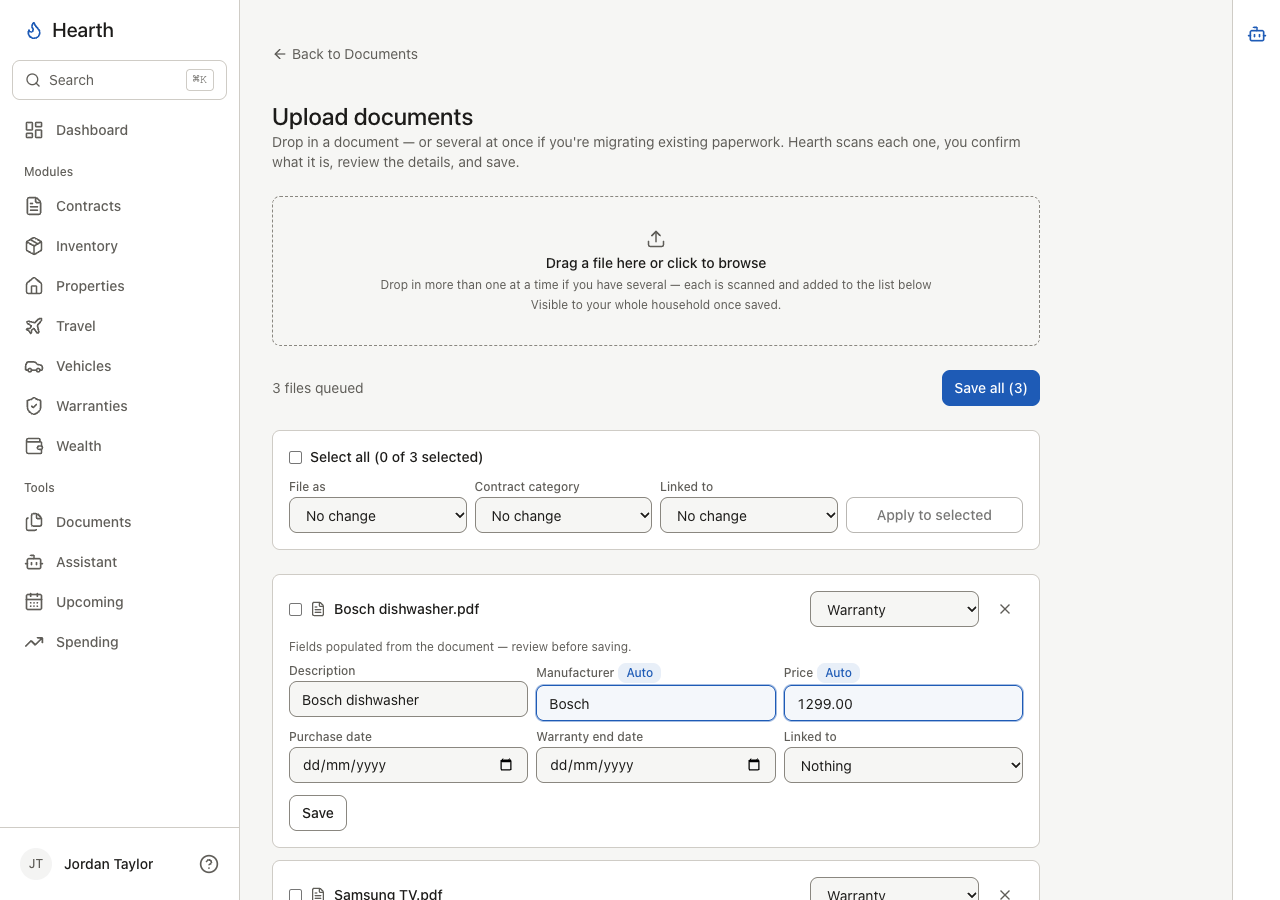
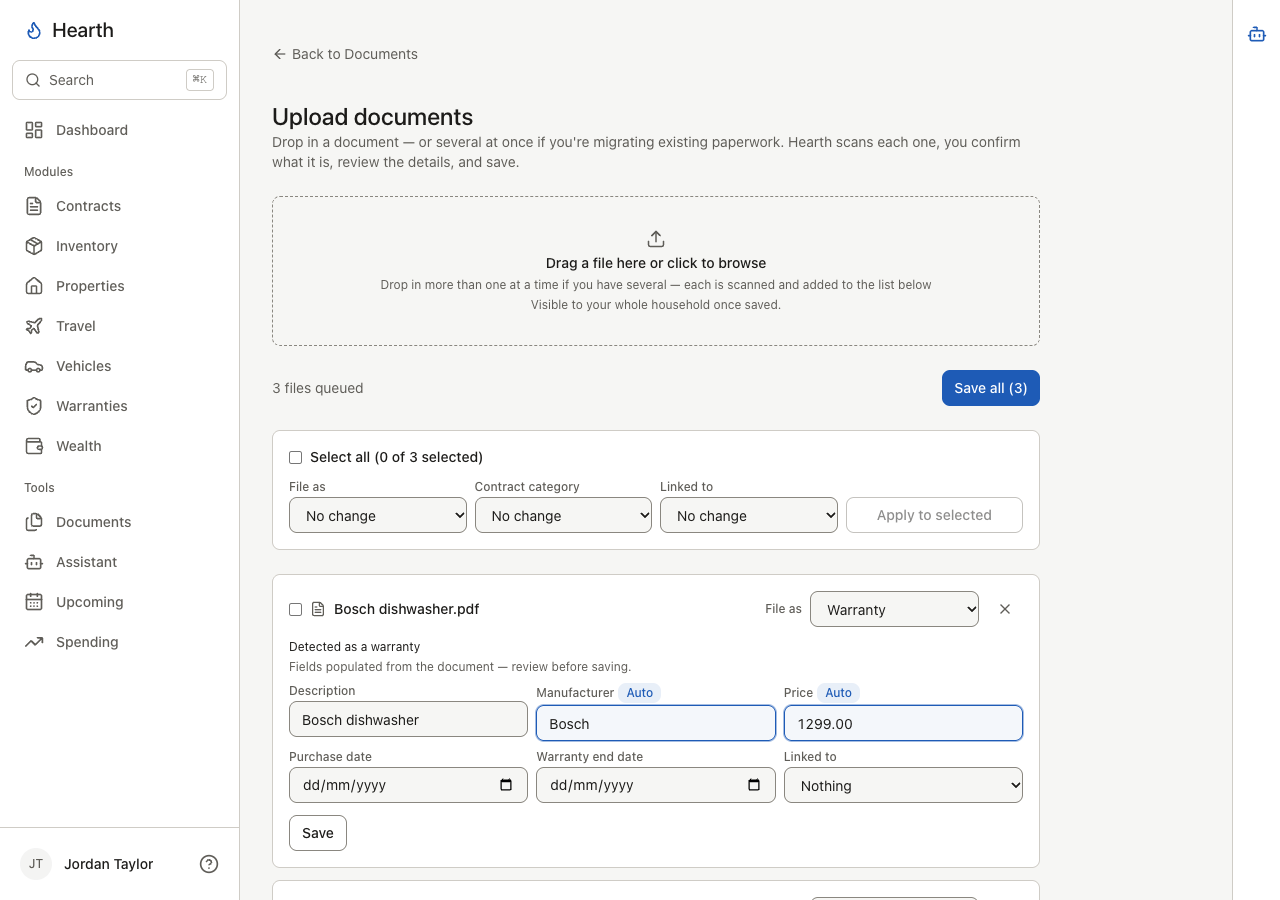
Upload rows label their type picker and say whether the type was detected (#604)
Each queued file on Upload documents gets a visible "File as" label tied to
its type select (accessible name still "File <name> as"), and tracks where
its type came from: the scan's guess ("Detected as a contract/warranty/
inventory item"), the fallback when the scan couldn't tell or failed
("Couldn't tell what this is. Pick a type."), or the person (no note, after
a per-row or "Apply to selected" change). An Inventory guess mapped to
Warranty with the module off reads "Detected as a warranty".

Recaptures docs/screenshots/import.png, which also brings it up to date
with #627's disabled-control styling.

Claude-Session: https://claude.ai/code/session_011ttckpenWhGwWMd3Q7v5KE

Changed region(s): [[0.2188, 0.7156, 0.8125, 1.0], [0.5938, 0.6533, 0.625, 0.6844]]

diff --git a/src/components/ImportClient.tsx b/src/components/ImportClient.tsx
@@ -10,6 +10,7 @@ import { showToast } from "@/components/Toast";
 import { LinkedToField } from "@/components/LinkedToField";
 import { extractionMessage } from "@/lib/autoFillHighlight";
 import { extractionReviewedOnSave } from "@/lib/documents/extractionConfirmation";
+import { scannedRowType, typeSourceNote, type TypeSource } from "@/lib/documents/uploadTypeSource";
 import { buttonClass, pillClass, inputClass, inlineLinkClass, reviewFieldClass } from "@/lib/ui";
 import { Card } from "@/components/ui/Card";
 
@@ -66,6 +67,8 @@ interface Row {
   id: string;
   file: File;
   type: EntityType;
+  /** #604 — whether `type` came from the scan's guess, the fallback, or the person. */
+  typeSource: TypeSource;
   status: RowStatus;
   error?: string;
   href?: string;
@@ -241,8 +244,7 @@ export function ImportClient({
     const inv = scan?.results.INVENTORY ?? empty;
     const textUnavailable = scan?.textUnavailable === true;
     const message = (r: ScanResult) => extractionMessage(r.source, Object.keys(r.fields).length, textUnavailable);
-    const guessed = scan?.guessedType === "INVENTORY" && !inventoryEnabled ? "PRODUCT" : scan?.guessedType;
-    const type: EntityType = guessed ?? "CONTRACT";
+    const { type, typeSource } = scannedRowType(scan?.guessedType, inventoryEnabled);
     const sources = { CONTRACT: c.source, PRODUCT: p.source, INVENTORY: inv.source };
     const scanMessages = { CONTRACT: message(c), PRODUCT: message(p), INVENTORY: message(inv) };
     setRows((prev) =>
@@ -251,6 +253,7 @@ export function ImportClient({
         const next: Row = {
           ...r,
           status: "ready",
+          typeSource,
           sources,
           scanMessages,
           contract: {
@@ -306,6 +309,7 @@ export function ImportClient({
         id,
         file,
         type: "CONTRACT",
+        typeSource: "fallback",
         status: "scanning",
         source: "none",
         extractionUsed: false,
@@ -410,7 +414,7 @@ export function ImportClient({
     setRows((prev) =>
       prev.map((r) => {
         if (!r.selected || !(r.status === "ready" || r.status === "error")) return r;
-        let next = bulk.type ? withType(r, bulk.type) : r;
+        let next = bulk.type ? { ...withType(r, bulk.type), typeSource: "user" as const } : r;
         if (bulk.category) next = { ...next, contract: { ...next.contract, category: bulk.category } };
         if (bulk.link) {
           const [kind, id] = bulk.link.split(":");
@@ -610,14 +614,19 @@ export function ImportClient({
                       </span>
                     ) : (
                       <>
+                        <label htmlFor={`${row.id}-type`} className="whitespace-nowrap text-xs font-medium text-muted">
+                          File <span className="sr-only">{row.file.name}</span> as
+                        </label>
                         <select
-                          aria-label={`File ${row.file.name} as`}
+                          id={`${row.id}-type`}
                           value={row.type}
                           disabled={row.status === "scanning" || row.status === "saving"}
                           onChange={(e) => {
                             // #358 — the scan already covered every type.
                             const type = e.target.value as EntityType;
-                            setRows((prev) => prev.map((r) => (r.id === row.id ? withType(r, type) : r)));
+                            setRows((prev) =>
+                              prev.map((r) => (r.id === row.id ? { ...withType(r, type), typeSource: "user" } : r)),
+                            );
                           }}
                           className={inputClass}
                         >
@@ -644,6 +653,11 @@ export function ImportClient({
                     <Loader2 size={16} className="animate-spin" /> Scanning…
                   </p>
                 )}
+
+                {(row.status === "ready" || row.status === "saving" || row.status === "error") &&
+                  typeSourceNote(row.type, row.typeSource) && (
+                    <p className="mb-1 text-xs">{typeSourceNote(row.type, row.typeSource)}</p>
+                  )}
 
                 {row.scanMessage && row.status !== "scanning" && (
                   <p role="status" aria-live="polite" className="mb-2 text-xs text-muted">

diff --git a/e2e/specs/22-import-extraction.spec.ts b/e2e/specs/22-import-extraction.spec.ts
@@ -216,6 +216,53 @@ test.describe("bulk document import and extraction", () => {
     }
   });
 
+  // #604 — each row has a visible "File as" label and says whether its type
+  // was detected or fell back; the note goes once the person picks a type.
+  test("rows say whether their type was detected, and stop once the person picks one", async ({ page }) => {
+    test.setTimeout(120_000);
+    const stamp = Date.now();
+    const detected = [`detected-a-${stamp}.pdf`, `detected-b-${stamp}.pdf`];
+    const unknown = `unknown-${stamp}.pdf`;
+
+    await page.goto("/import");
+    await page.locator('input[type="file"]').setInputFiles([
+      ...detected.map((name) => ({
+        name,
+        mimeType: "application/pdf",
+        buffer: textPdfBytes(["Tax Invoice", "Product: Dishwasher", "Brand: Bosch", "Invoice Date: 2026-05-01"]),
+      })),
+      { name: unknown, mimeType: "application/pdf", buffer: pdfBytes() },
+    ]);
+
+    const detectedNote = page.getByText("Detected as a warranty", { exact: true });
+    const fallbackNote = page.getByText("Couldn't tell what this is. Pick a type.", { exact: true });
+    for (const name of detected) {
+      await expect(page.getByLabel(`File ${name} as`)).toHaveValue("PRODUCT", { timeout: 30_000 });
+    }
+    const unknownSelect = page.getByLabel(`File ${unknown} as`);
+    await expect(unknownSelect).toHaveValue("CONTRACT", { timeout: 30_000 });
+    await expect(detectedNote).toHaveCount(2);
+    await expect(fallbackNote).toHaveCount(1);
+    // The row's own visible "File as" label is tied to its select.
+    const unknownLabel = page.locator(`label[for="${await unknownSelect.getAttribute("id")}"]`);
+    await expect(unknownLabel).toBeVisible();
+    await expect(unknownLabel).toContainText("File");
+
+    // A per-row change clears that row's note.
+    await unknownSelect.selectOption("PRODUCT");
+    await expect(fallbackNote).toHaveCount(0);
+    await expect(detectedNote).toHaveCount(2);
+
+    // A bulk "File as" change clears the selected rows' notes.
+    const bulk = page.getByLabel("Apply to selected files");
+    await page.getByLabel(`Select ${detected[0]}`).check();
+    await bulk.getByLabel("File as").selectOption("CONTRACT");
+    await bulk.getByRole("button", { name: "Apply to selected" }).click();
+    await expect(page.getByLabel(`File ${detected[0]} as`)).toHaveValue("CONTRACT");
+    await expect(page.getByText(/^Detected as/)).toHaveCount(1);
+    await expect(detectedNote).toHaveCount(1);
+  });
+
   test("import page is reachable from the dashboard", async ({ page }) => {
     await page.goto("/dashboard");
     await page.getByRole("link", { name: "Upload a document" }).click();

diff --git a/tests/unit/upload-type-source.test.ts b/tests/unit/upload-type-source.test.ts
@@ -1,0 +1,38 @@
+import { describe, it, expect } from "vitest";
+import { scannedRowType, typeSourceNote } from "@/lib/documents/uploadTypeSource";
+
+// #604 — each Upload row says whether its type came from the scan or the
+// fallback, and says nothing once the person has picked the type.
+describe("scannedRowType", () => {
+  it("takes the scan's guess as the row's type", () => {
+    expect(scannedRowType("PRODUCT", true)).toEqual({ type: "PRODUCT", typeSource: "scan" });
+    expect(scannedRowType("CONTRACT", false)).toEqual({ type: "CONTRACT", typeSource: "scan" });
+    expect(scannedRowType("INVENTORY", true)).toEqual({ type: "INVENTORY", typeSource: "scan" });
+  });
+
+  it("maps an Inventory guess to Warranty when the Inventory module is off, still as a scan guess", () => {
+    expect(scannedRowType("INVENTORY", false)).toEqual({ type: "PRODUCT", typeSource: "scan" });
+  });
+
+  it("falls back to Contract when the scan had no guess or failed", () => {
+    expect(scannedRowType(null, true)).toEqual({ type: "CONTRACT", typeSource: "fallback" });
+    expect(scannedRowType(undefined, true)).toEqual({ type: "CONTRACT", typeSource: "fallback" });
+  });
+});
+
+describe("typeSourceNote", () => {
+  it("names the detected type for a scan guess", () => {
+    expect(typeSourceNote("CONTRACT", "scan")).toBe("Detected as a contract");
+    expect(typeSourceNote("PRODUCT", "scan")).toBe("Detected as a warranty");
+    expect(typeSourceNote("INVENTORY", "scan")).toBe("Detected as an inventory item");
+  });
+
+  it("asks the person to pick a type after a fallback", () => {
+    expect(typeSourceNote("CONTRACT", "fallback")).toBe("Couldn't tell what this is. Pick a type.");
+  });
+
+  it("says nothing once the person chose the type", () => {
+    expect(typeSourceNote("CONTRACT", "user")).toBeNull();
+    expect(typeSourceNote("INBOX", "user")).toBeNull();
+  });
+});

diff --git a/src/lib/documents/uploadTypeSource.ts b/src/lib/documents/uploadTypeSource.ts
@@ -1,0 +1,34 @@
+// #604 — where an Upload row's type came from: the scan's guess, the
+// fallback when the scan couldn't tell (or failed), or the person.
+
+export type UploadRowType = "CONTRACT" | "PRODUCT" | "INVENTORY" | "INBOX";
+export type TypeSource = "scan" | "fallback" | "user";
+
+type GuessedType = "CONTRACT" | "PRODUCT" | "INVENTORY";
+
+/** The type a freshly scanned row is filed as, and where that type came from. */
+export function scannedRowType(
+  guessed: GuessedType | null | undefined,
+  inventoryEnabled: boolean,
+): { type: UploadRowType; typeSource: TypeSource } {
+  if (!guessed) return { type: "CONTRACT", typeSource: "fallback" };
+  // With the Inventory module off, an inventory item is filed as a Warranty.
+  if (guessed === "INVENTORY" && !inventoryEnabled) return { type: "PRODUCT", typeSource: "scan" };
+  return { type: guessed, typeSource: "scan" };
+}
+
+/** The note under a row's header, or null once the person has picked the type. */
+export function typeSourceNote(type: UploadRowType, source: TypeSource): string | null {
+  if (source === "fallback") return "Couldn't tell what this is. Pick a type.";
+  if (source !== "scan") return null;
+  switch (type) {
+    case "CONTRACT":
+      return "Detected as a contract";
+    case "PRODUCT":
+      return "Detected as a warranty";
+    case "INVENTORY":
+      return "Detected as an inventory item";
+    default:
+      return null;
+  }
+}

diff --git a/CHANGELOG.md b/CHANGELOG.md
@@ -225,6 +225,13 @@ Versions follow [Semantic Versioning](https://semver.org/), starting at `0.1.0`.
 
 ### Changed
 
+- **Upload rows say whether their type was detected (#604).** Each queued
+  file on Upload documents now has a visible "File as" label beside its type
+  picker, and a note under the file name: "Detected as a contract" (or a
+  warranty, or an inventory item) when the scan guessed the type, or
+  "Couldn't tell what this is. Pick a type." when it fell back to Contract.
+  The note goes once you pick a type, on the row or through "Apply to
+  selected". Scanning, extraction and saving are unchanged.
 - **Disabled controls all dim to the same 50% (#620, #558).** Disabled
   buttons and fields were 60% from the shared classes, but 13 buttons added
   their own 50%, the locked admin-only settings rows and the sign-in email
